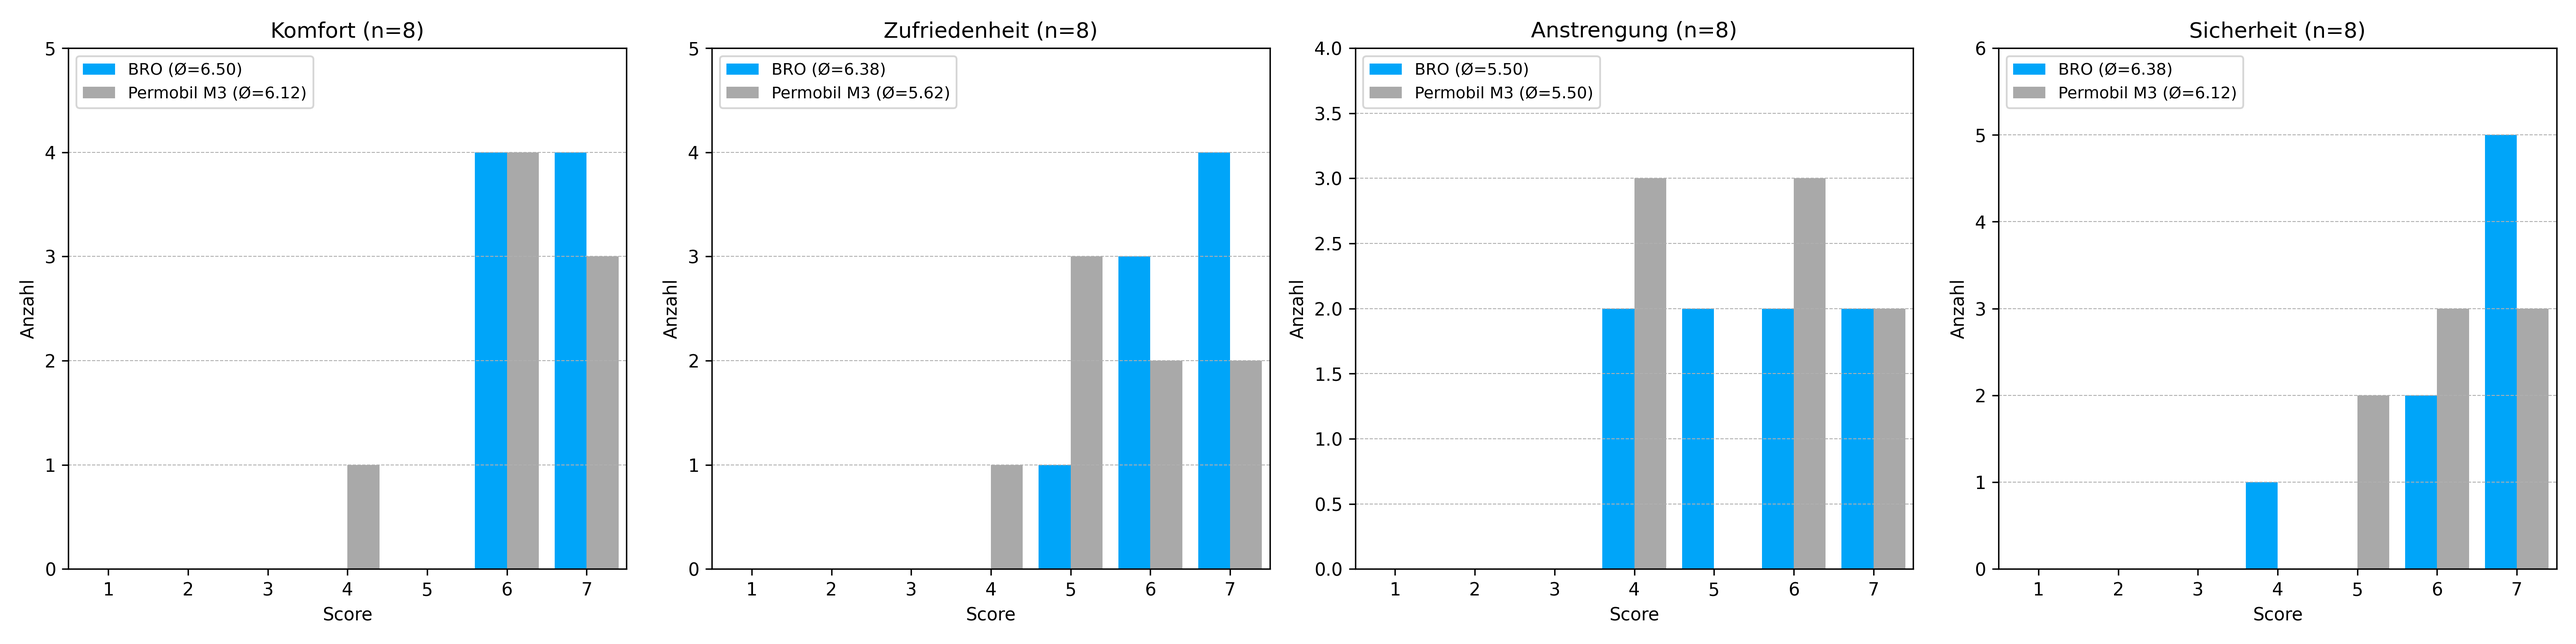
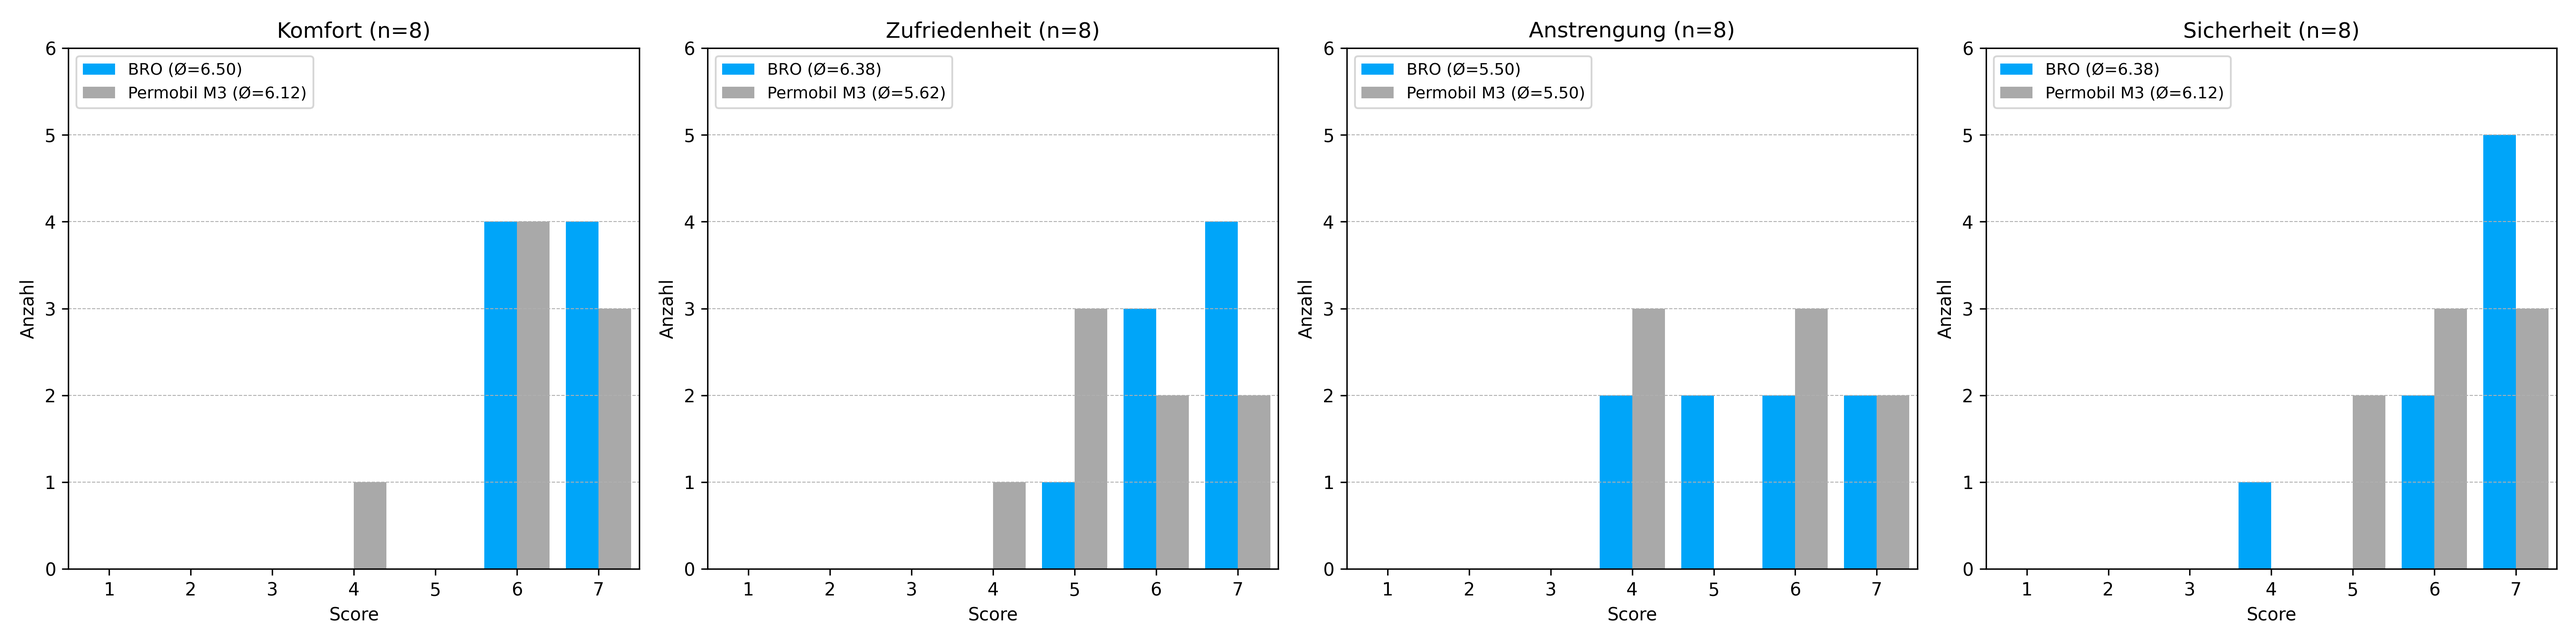
angepasste y-Achsen

diff --git a/Code/ssi_barplot_improved.py b/Code/ssi_barplot_improved.py
@@ -84,7 +84,7 @@ for ax, item in zip(axs, SSI_ITEMS):
     n = int(ssi_combined_clean[item].count() / 2)  # n per version
     ax.set_title(f"{SSI_TITLES[item]} (n={n})")
     ax.set_xlim(0.5, 7.5)
-    ax.set_ylim(0, y_max_values[item])  # Use dynamic y_max for each item
+    ax.set_ylim(0, max_count + 1)  # Use dynamic y_max for each item
     ax.set_xticks(SCORE_RANGE)
     ax.set_xlabel('Score')
     ax.set_ylabel('Anzahl')

diff --git a/Code/score_barplot_improved.py b/Code/score_barplot_improved.py
@@ -58,10 +58,10 @@ df = load_csv("merged_data.csv")
 # === Combined Barplots (Tasks 1–6) ===
 fig, axs = plt.subplots(3, 2, figsize=(12, 10))
 axs = axs.flatten()
-global_max = 0
 
 for i, task_num in enumerate(range(1, 7)):
     bro_rows, m3_rows = [], []
+    global_max = 0
 
     for _, row in df.iterrows():
         bro_rows.extend([{'Score': s, 'Version': 'BRO'} for s in extract_scores(row, task_num, 'BRO')])
